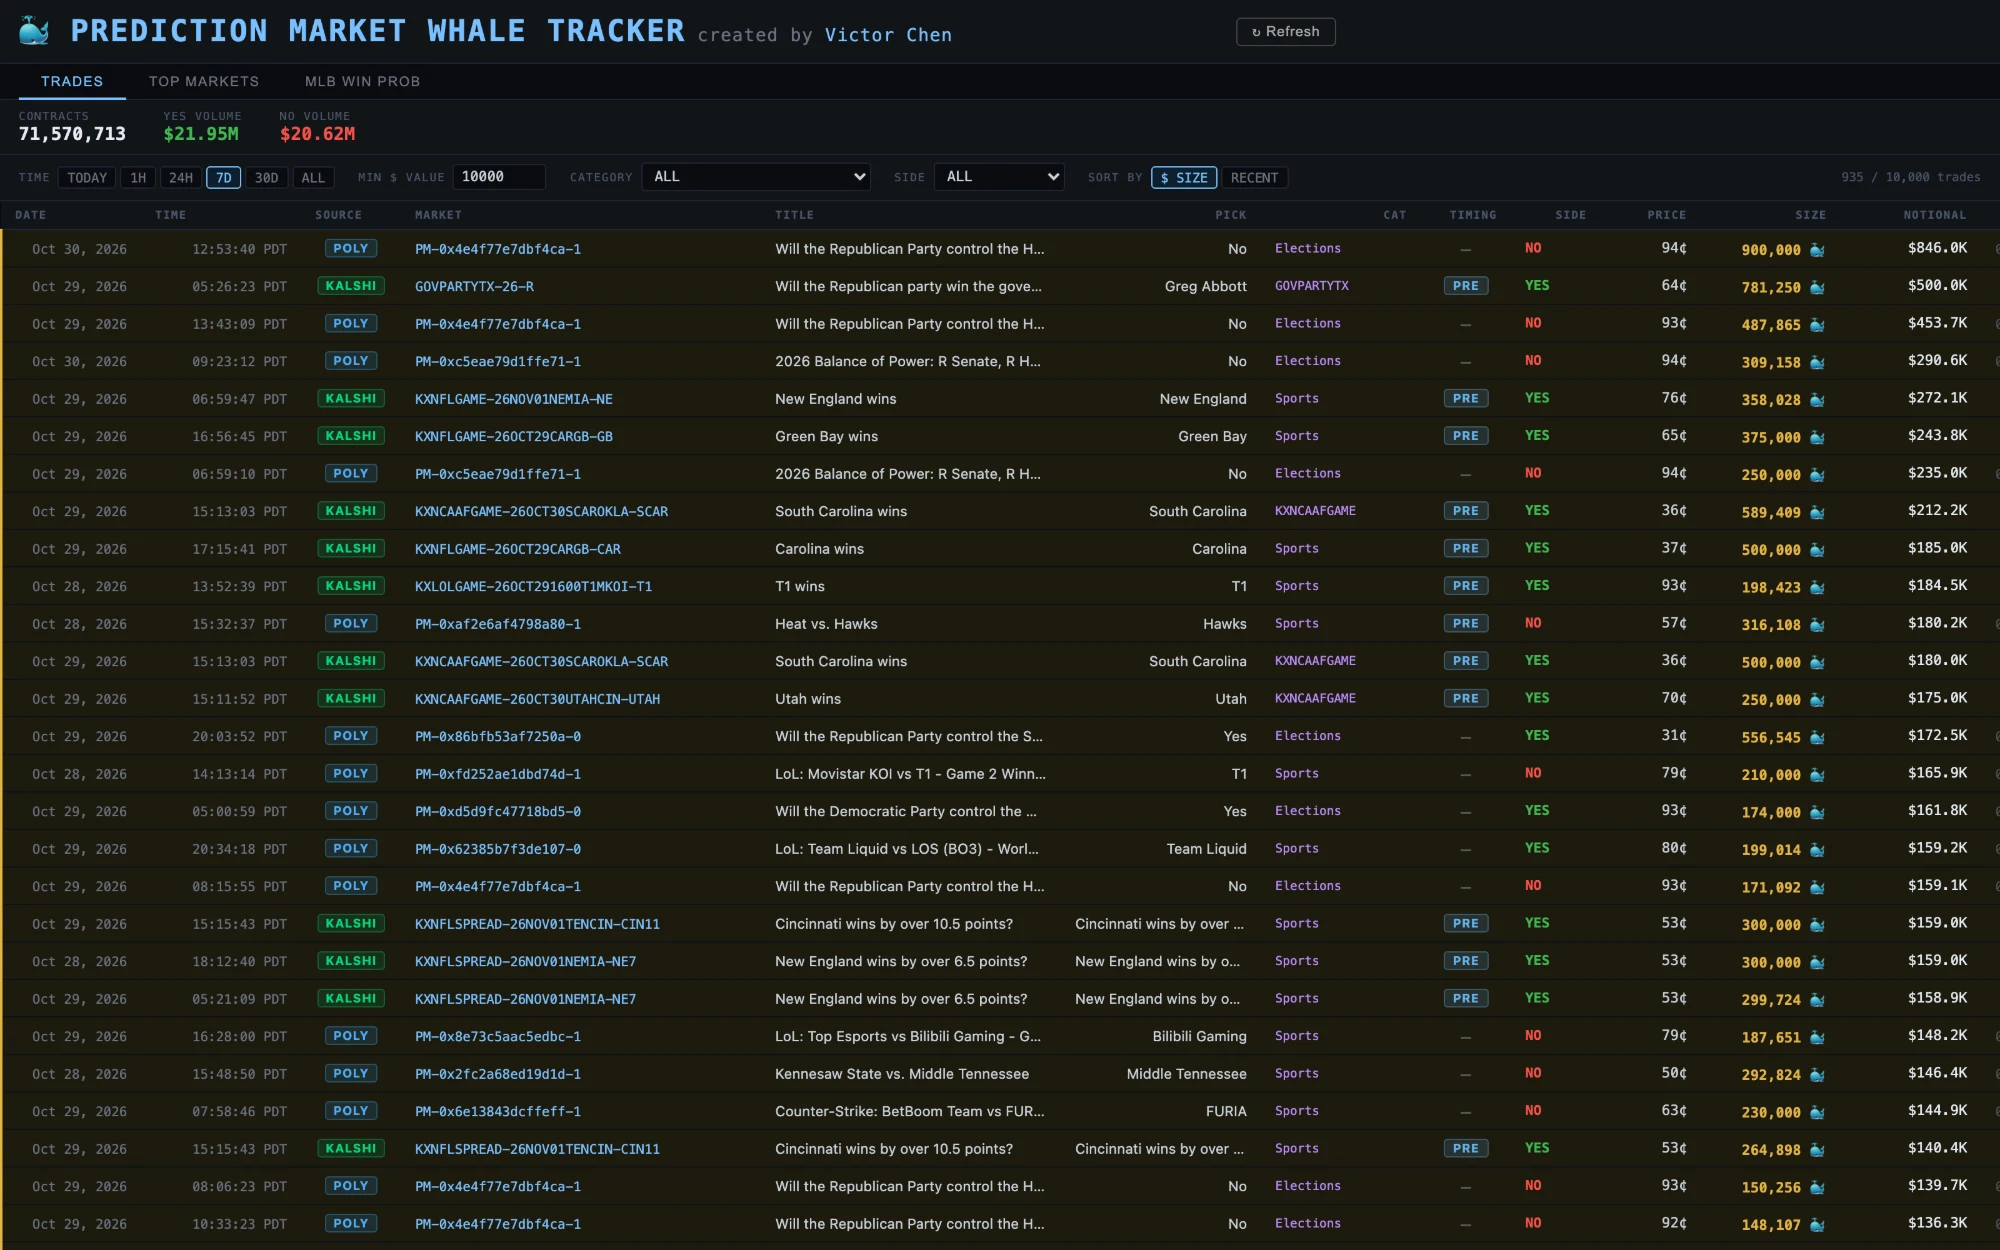
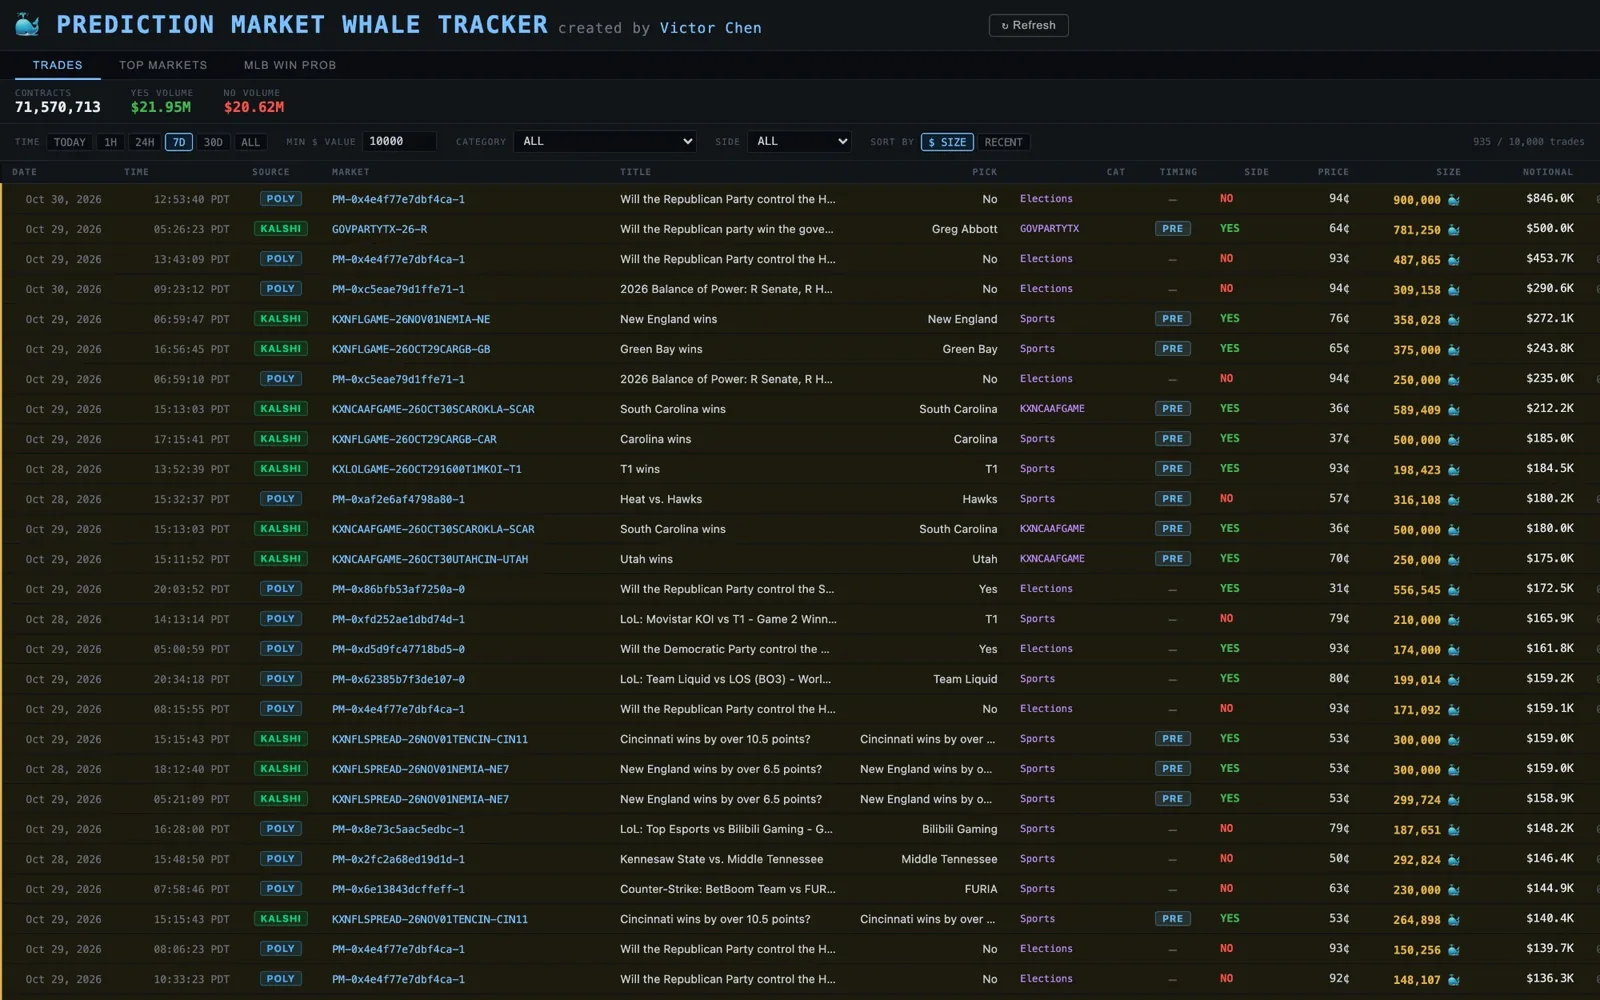
Compress and resize images
The images folder drops from 3.0 MB to 620 KB with no visible change.

- Avatar: the 951x1034 PNG (1.35 MB, loaded on every page) becomes a
  360px-wide WebP that keeps the transparent oval cutout (22 KB)
- Notebook charts: stored as 256-colour palette PNGs (776 KB -> 263 KB);
  transparent chart backgrounds are flattened onto white so they stay
  readable on a dark background
- Whale tracker screenshots: 2000px -> 1600px wide, still sharp when
  opened full size (494 KB -> 282 KB)
- Rename the optimization histogram, whose filename contained a colon
  (not allowed in Windows file names)

Claude-Session: https://claude.ai/code/session_018GuBXZc9pLRR1YqU5q2Umb

diff --git a/_portfolio/portfolio-5.md b/_portfolio/portfolio-5.md
@@ -837,7 +837,7 @@ df.hist(column='RST%')
 
 
     
-<br/><img src='/images/DFS_optimization_pyomo_files:DFS_optimization_pyomo_18_1.png'>
+<br/><img src='/images/dfs_roster_percent_histogram.png'>
     
 ### Looking at the roster percentage, we can see that the majority of players are at 0 percent. We can create a constraint where we can have the average roster percentage be over or under a certain value using roster_low as the average of the roster percent as a whole percent.
 
